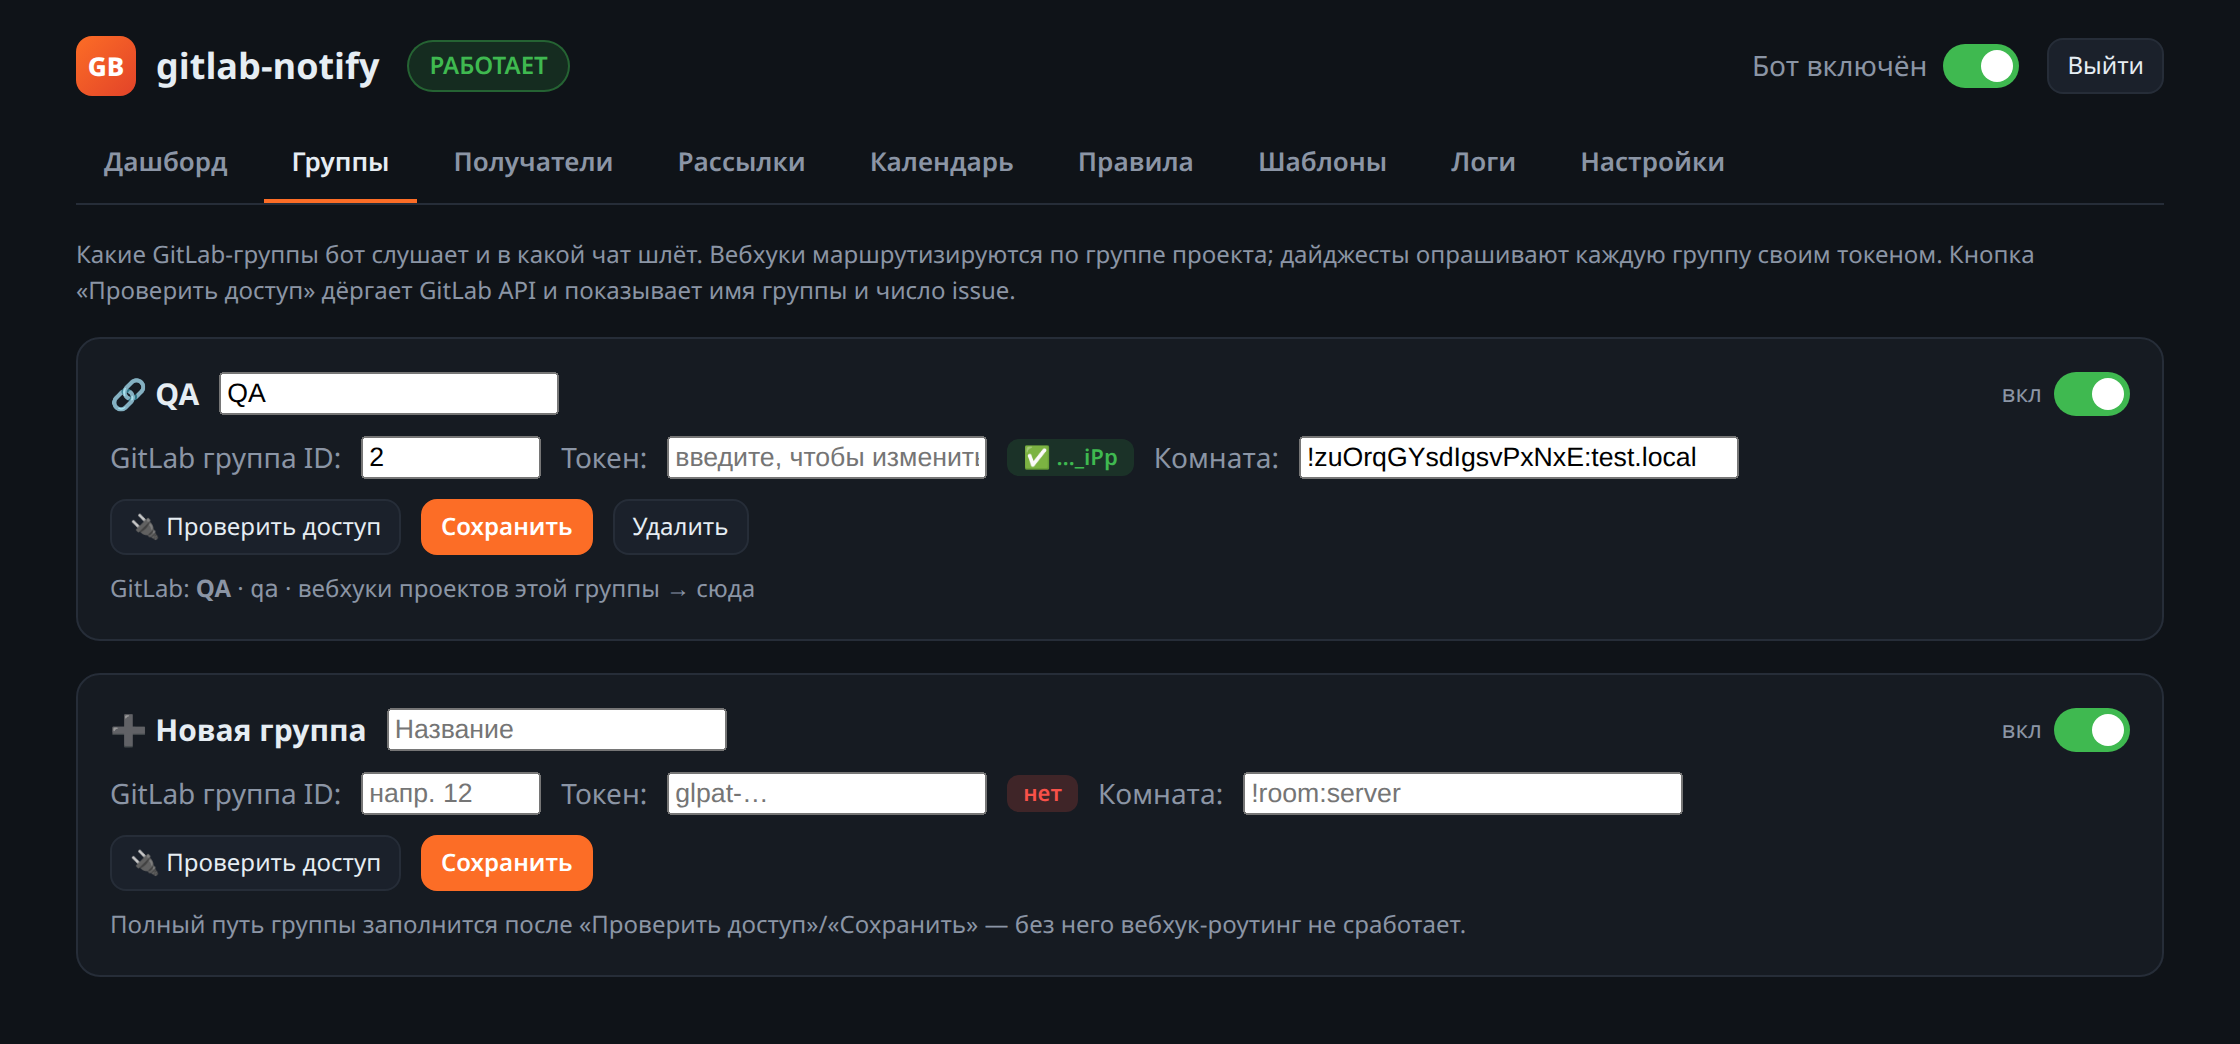
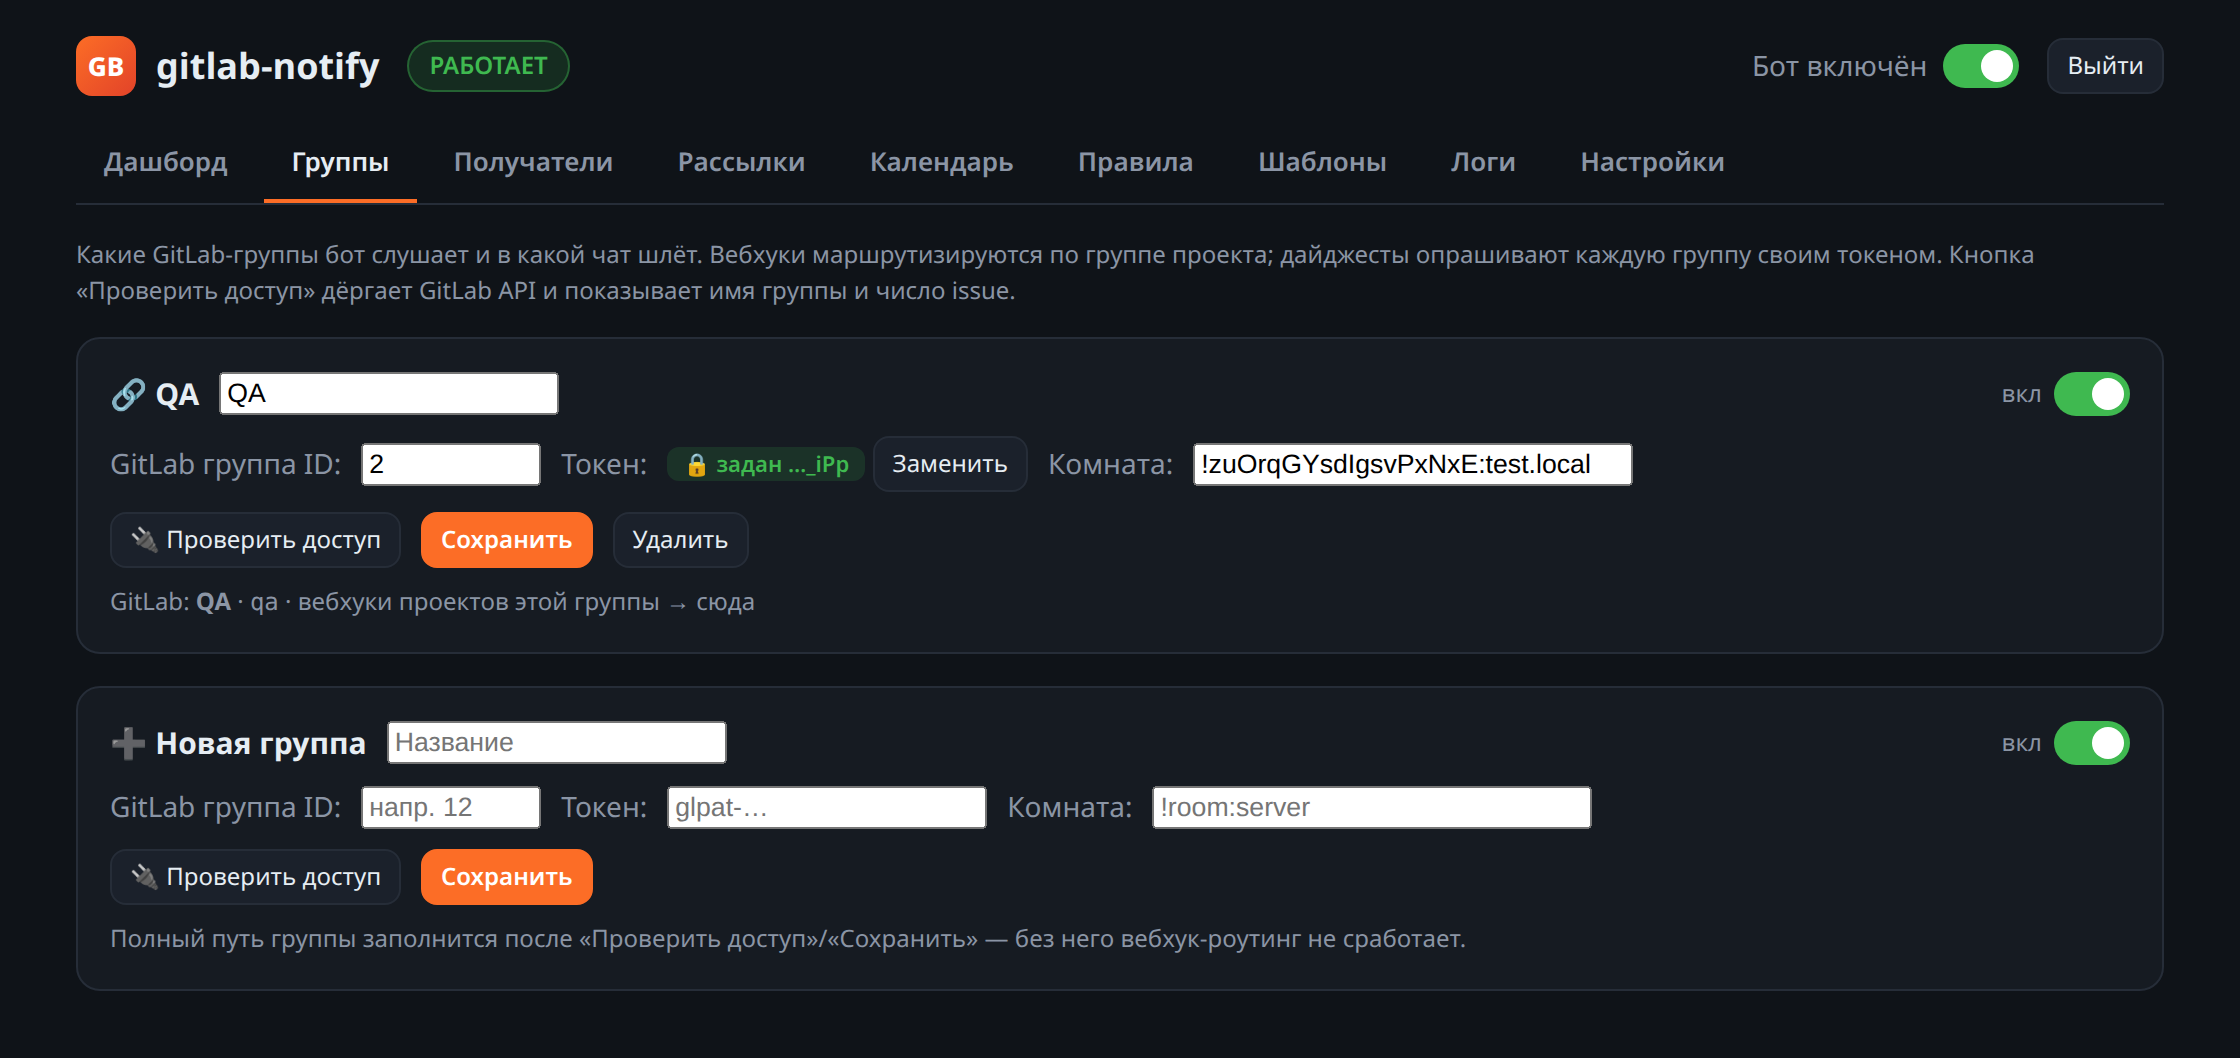
ux(gitlab-notify): секреты как чип «🔒 задан …xxxx» + «Заменить» (группы и настройки)

diff --git a/services/gitlab-notify/admin_html.py b/services/gitlab-notify/admin_html.py
@@ -213,11 +213,11 @@ HTML = r"""<!doctype html>
   <!-- Настройки -->
   <div class="view" data-v="conn">
     <div class="card"><h2>Подключения</h2>
-      <p class="hint">Адреса и секреты бота — хранятся в БД (поверх env), меняются на лету. Секреты маскируются: пустое поле = не менять. Matrix-токен — один аккаунт бота на все комнаты (per-group задаются только GitLab-токены во вкладке «Группы»).</p>
+      <p class="hint">Адреса и секреты бота — хранятся в БД, меняются на лету. Заданный секрет показан как «🔒 задан …xxxx» — жми «Заменить», чтобы ввести новый. Matrix-токен — один аккаунт бота на все комнаты (per-group задаются только GitLab-токены во вкладке «Группы»).</p>
       <div class="row"><span class="mut" style="width:150px">Matrix homeserver</span><input type="text" id="cHs" style="width:300px" placeholder="https://matrix.…"></div>
-      <div class="row"><span class="mut" style="width:150px">Matrix токен бота</span><input type="password" id="cTok" style="width:300px" placeholder="введите, чтобы изменить">
-        <span id="cTokSt"></span><button class="sm" onclick="checkMatrix(this)">🔌 Проверить</button><span id="cMx" style="font-size:13px"></span></div>
-      <div class="row"><span class="mut" style="width:150px">Секрет вебхука</span><input type="password" id="cWh" style="width:300px" placeholder="введите, чтобы изменить"><span id="cWhSt"></span></div>
+      <div class="row"><span class="mut" style="width:150px">Matrix токен бота</span><span id="cTokWrap"></span>
+        <button class="sm" onclick="checkMatrix(this)">🔌 Проверить</button><span id="cMx" style="font-size:13px"></span></div>
+      <div class="row"><span class="mut" style="width:150px">Секрет вебхука</span><span id="cWhWrap"></span></div>
       <div class="row"><span class="mut" style="width:150px">GitLab URL</span><input type="text" id="cGl" style="width:300px" placeholder="https://git.…"></div>
       <div class="row"><button class="primary" onclick="saveConn()">Сохранить</button></div>
     </div>
@@ -344,23 +344,32 @@ function renderUsers(){
     <td><select onchange="setUser('${login}',{push:this.value})">${S.push_modes.map(m=>`<option value="${m}" ${u.push===m?'selected':''}>${PUSHL[m]||m}</option>`).join('')}</select></td></tr>`).join('')
     ||'<tr><td colspan=5 class="mut">Никого не найдено.</td></tr>';
 }
-function _setBadge(id,has,masked){
-  $(id).innerHTML=has?`<span class="badge sent">✅ задан ${esc(masked)}</span>`:'<span class="badge error">❌ не задан</span>';
+// Секрет: если задан — чип «🔒 задан …xxxx» + «Заменить»; иначе поле ввода.
+function secretField(wrapId,inputId,has,masked,ph,w){
+  $(wrapId).innerHTML=has
+    ? `<span class="badge sent">🔒 задан ${esc(masked)}</span> <button class="sm" type="button" onclick="revealSecret('${wrapId}','${inputId}','${esc(ph)}',${w})">Заменить</button>`
+    : `<input id="${inputId}" type="password" placeholder="${esc(ph)}" style="width:${w}px">`;
+}
+function revealSecret(wrapId,inputId,ph,w){
+  $(wrapId).innerHTML=`<input id="${inputId}" type="password" placeholder="новый ${esc(ph)}" style="width:${w}px"> <button class="sm" type="button" onclick="load()">Отмена</button>`;
+  $(inputId).focus();
 }
 function renderConn(c){c=c||{};
   $('cHs').value=c.matrix_homeserver||'';
   $('cGl').value=c.gitlab_url||'';
-  $('cTok').value='';$('cWh').value='';
-  _setBadge('cTokSt',c.has_matrix_token,c.matrix_token_masked);
-  _setBadge('cWhSt',c.has_webhook_secret,c.webhook_secret_masked);
+  secretField('cTokWrap','cTok',c.has_matrix_token,c.matrix_token_masked,'syt_…',300);
+  secretField('cWhWrap','cWh',c.has_webhook_secret,c.webhook_secret_masked,'секрет вебхука',300);
 }
 async function saveConn(){
-  await api('/conn','POST',{matrix_homeserver:$('cHs').value,matrix_token:$('cTok').value,
-    webhook_secret:$('cWh').value,gitlab_url:$('cGl').value});
+  const body={matrix_homeserver:$('cHs').value,gitlab_url:$('cGl').value};
+  const tok=$('cTok'); if(tok&&tok.value) body.matrix_token=tok.value;   // только если введён новый
+  const wh=$('cWh'); if(wh&&wh.value) body.webhook_secret=wh.value;
+  await api('/conn','POST',body);
   toast('Подключения сохранены');load();
 }
 async function checkMatrix(btn){const el=$('cMx');el.style.color='var(--mut)';el.textContent='проверяю…';
-  const r=await api('/conn/check-matrix','POST',{homeserver:$('cHs').value,token:$('cTok').value});
+  const tok=$('cTok');
+  const r=await api('/conn/check-matrix','POST',{homeserver:$('cHs').value,token:tok?tok.value:''});
   if(r.ok){el.style.color='var(--ok)';el.textContent='✓ '+r.user_id;}else{el.style.color='var(--bad)';el.textContent='✗ '+(r.error||'не работает');}
 }
 async function runHealth(){const sum=$('healthSum'),list=$('healthList');
@@ -392,8 +401,9 @@ function srcCard(s){
     <div class="row" style="margin:10px 0 0"><span class="mut">GitLab группа ID:</span>
       <input class="sGid" value="${esc(s.group_id||'')}" placeholder="напр. 12" style="width:90px">
       <span class="mut">Токен:</span>
-      <input class="sTok" type="password" placeholder="${s.has_token?'введите, чтобы изменить':'glpat-…'}" style="width:160px">
-      ${s.has_token?`<span class="badge sent">✅ ${esc(s.token_masked)}</span>`:'<span class="badge error">нет</span>'}
+      <span class="tokWrap">${s.has_token
+        ? `<span class="badge sent">🔒 задан ${esc(s.token_masked)}</span> <button class="sm" type="button" onclick="grpTokEdit(this)">Заменить</button>`
+        : `<input class="sTok" type="password" placeholder="glpat-…" style="width:160px">`}</span>
       <span class="mut">Комната:</span>
       <input class="sRoom" value="${esc(s.room||'')}" placeholder="!room:server" style="width:220px"></div>
     <div class="row" style="margin:10px 0 0">
@@ -408,10 +418,13 @@ function renderSources(){
   const list=(S.sources||[]).map(srcCard).join('');
   $('srcCards').innerHTML=list+srcCard({});   // + пустая карточка для добавления
 }
+function grpTokEdit(btn){const w=btn.closest('.tokWrap');
+  w.innerHTML='<input class="sTok" type="password" placeholder="новый glpat-…" style="width:160px"> <button class="sm" type="button" onclick="renderSources()">Отмена</button>';
+  w.querySelector('input').focus();}
 function _srcBody(card){
-  const tok=card.querySelector('.sTok').value;
+  const t=card.querySelector('.sTok');               // нет поля = чип «задан» -> токен не трогаем
   return {id:card.dataset.sid||'', name:card.querySelector('.sName').value,
-    group_id:card.querySelector('.sGid').value, token:tok||'…keep',
+    group_id:card.querySelector('.sGid').value, token:(t&&t.value)?t.value:'…keep',
     room:card.querySelector('.sRoom').value, enabled:card.querySelector('.sEn').checked};
 }
 async function validateSrc(btn){
